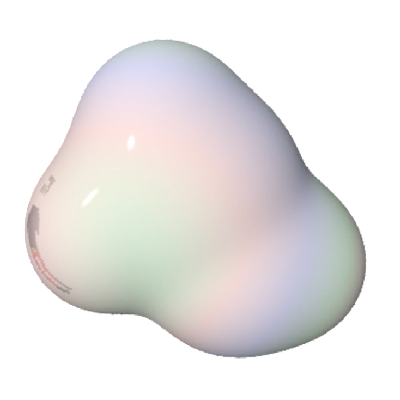
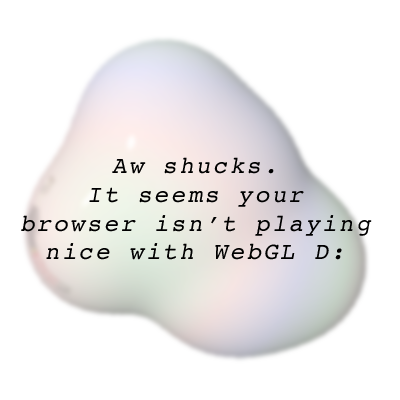
better placeholder, kill safari now pls

diff --git a/initGL.js b/initGL.js
@@ -2,15 +2,19 @@ var gl;
 var frame = 0.0;
 
 function initGL(canvas) {
-    try {
-        gl = canvas.getContext("webgl");
-        gl.viewportWidth = canvas.width;
-        gl.viewportHeight = canvas.height;
-    } catch (e) {
-        alert("Failed to initialise WebGL. Exception thrown in initGL(): " + e);
-    }
-    if (!gl) {
-        alert("Failed to initialise WebGL");
+    var isMobile = /Android|webOS|iPhone|iPad|iPod|BlackBerry|IEMobile|Opera Mini/i.test(navigator.userAgent);
+    var isSafari = /Safari/i.test(navigator.userAgent) && !(/Chrome/i.test(navigator.userAgent));
+    if(!(isMobile || isSafari)) {
+        try {
+            gl = canvas.getContext("webgl");
+            gl.viewportWidth = canvas.width;
+            gl.viewportHeight = canvas.height;
+        } catch (e) {
+            alert("Failed to initialise WebGL. Exception thrown in initGL(): " + e);
+        }
+        if (!gl) {
+            alert("Failed to initialise WebGL");
+        }
     }
 }
 function getShader(gl, id) {
